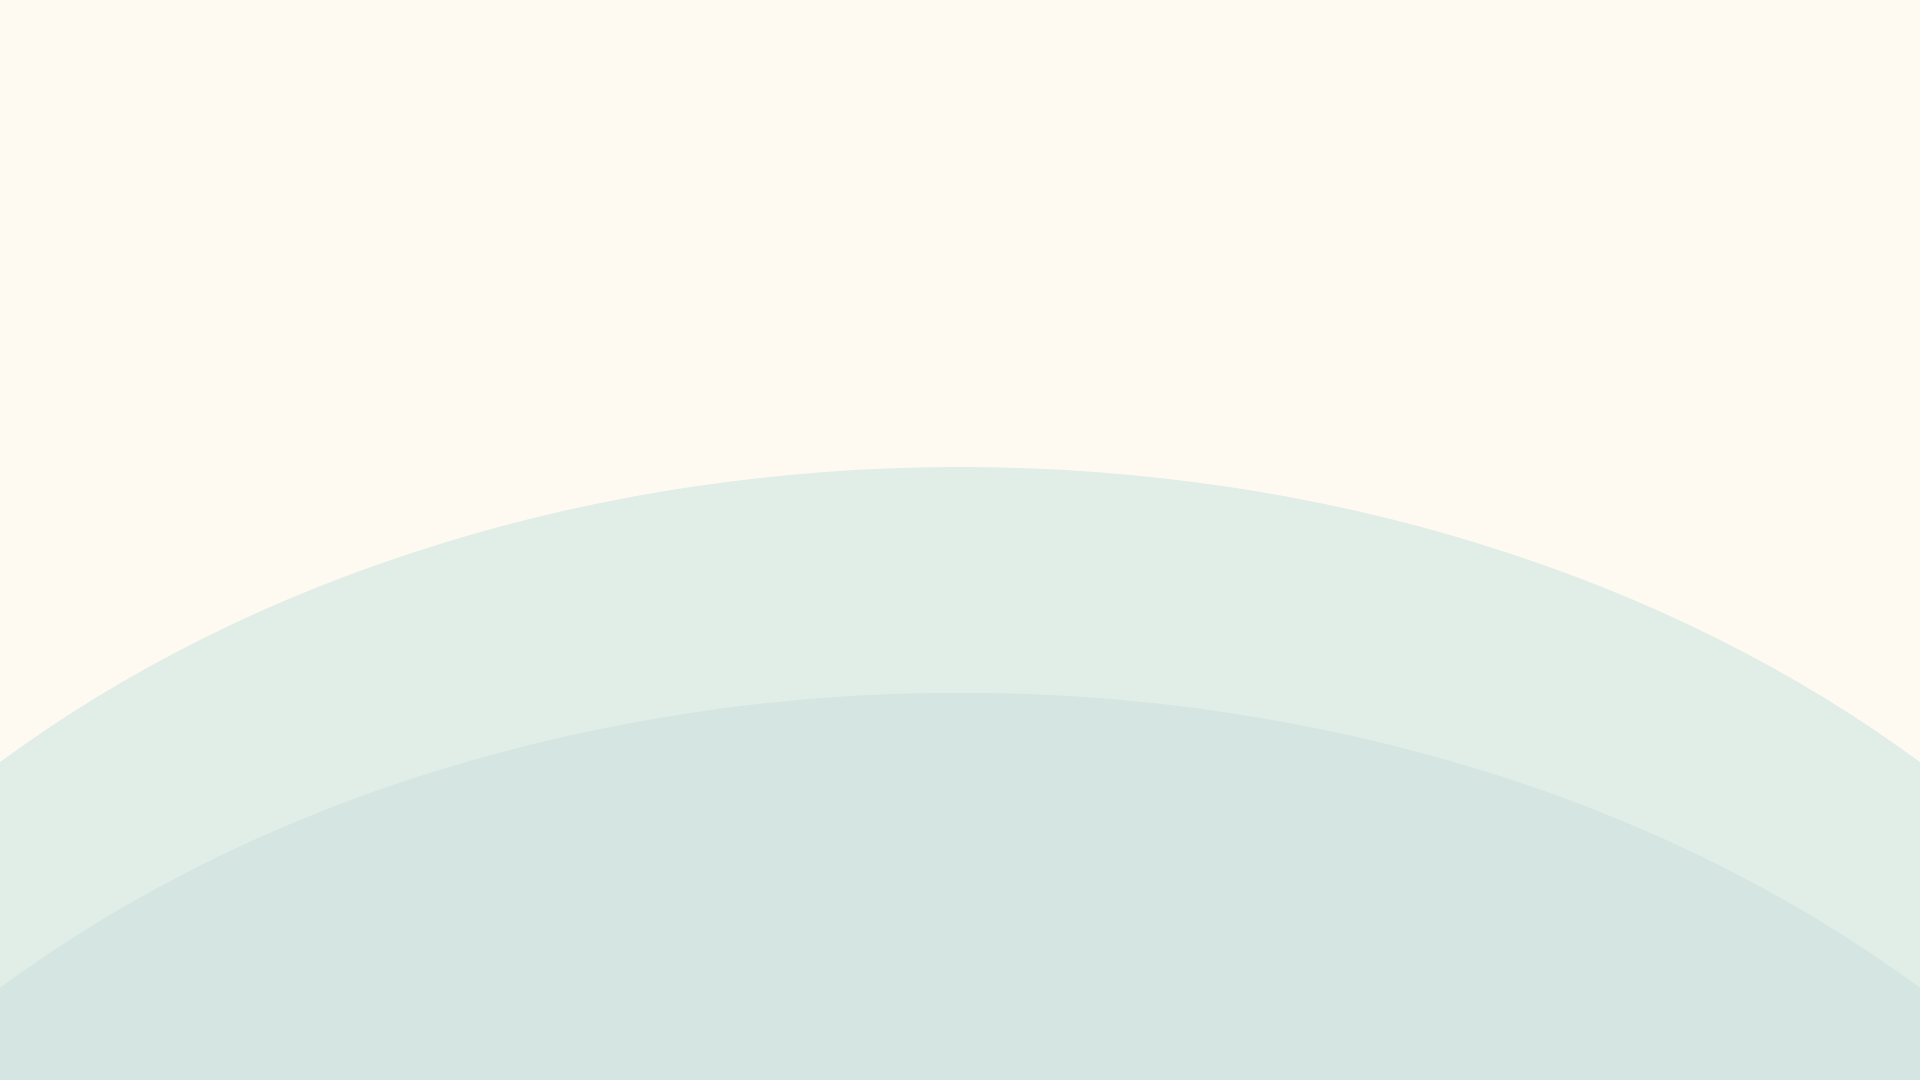
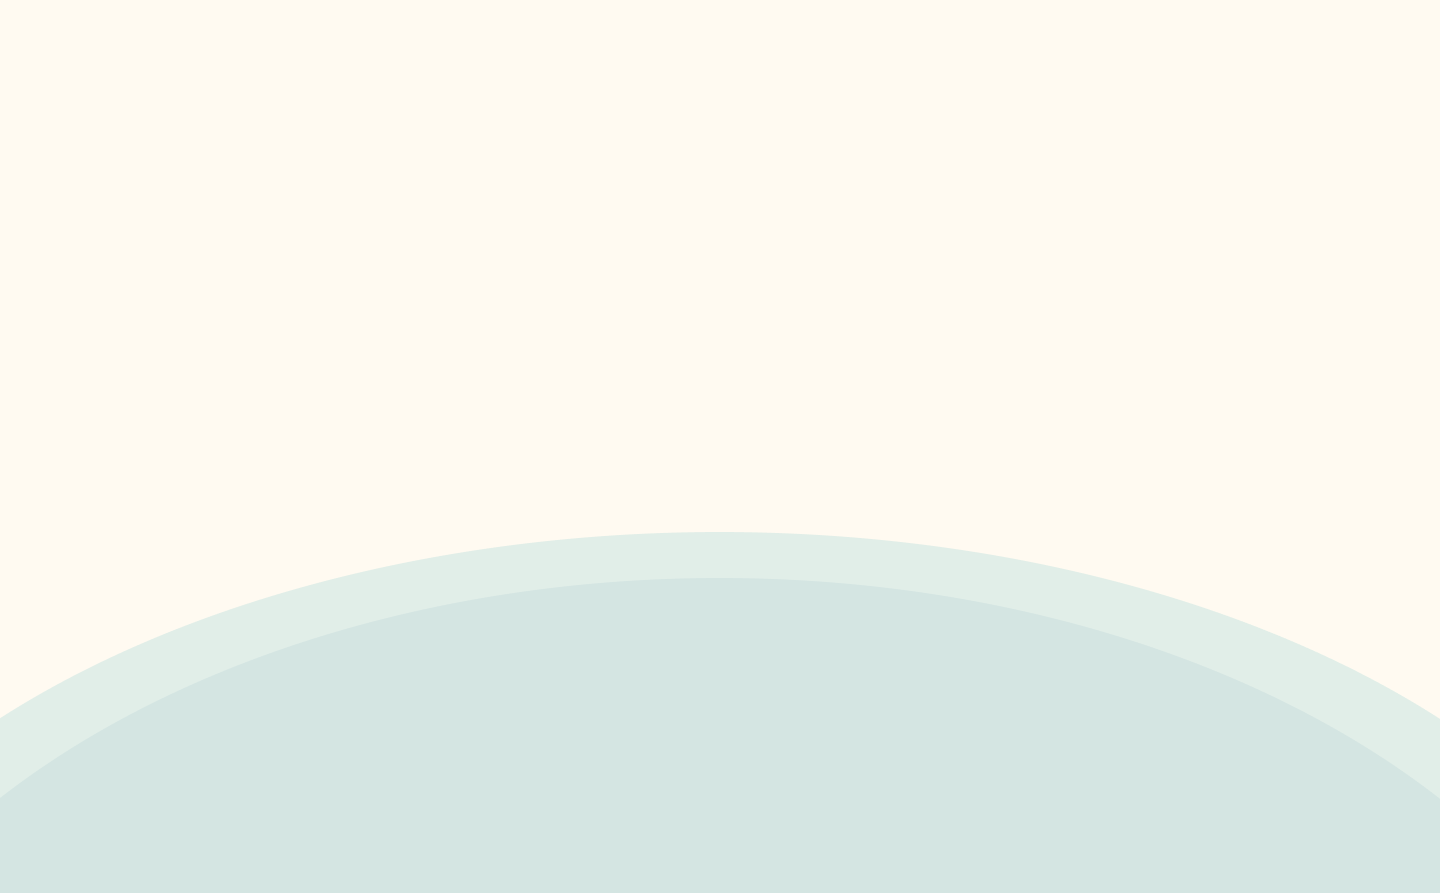
Homepage updated again

Changed region(s): [[0.0, 0.4233, 1.0, 0.8163]]

diff --git a/src/components/Homepage.jsx b/src/components/Homepage.jsx
@@ -26,6 +26,11 @@ export default function Homepage() {
       <div className="centered-title">
         <h1>WANT TO LEARN ASL?</h1>
       </div>
+      <div className="centered-text">
+        <p>Jump into <strong>ASLingo</strong>, the gamified way to learn <br />
+        <strong>American Sign Language!</strong> Get instant feedback, crush mini-games, <br />
+        and level up your skills. <strong>No matter your level, this is your all-in-one ASL platform.</strong></p>
+      </div>
       <div className="homepage-buttons">
          <button className="frontpage-btn" onClick={() => navigate("/login")}>Login</button>
          <button className="frontpage-btn" onClick={() => navigate("/signup")}>Sign Up</button>

diff --git a/src/index.css b/src/index.css
@@ -46,7 +46,7 @@ body {
   gap: 20px;      
   display: flex;
   justify-content: center;     
-  margin-top: 150px; 
+  margin-top: 250px; 
 }
 
 .frontpage-btn {
@@ -74,7 +74,16 @@ body {
   color: #283E4C;
   text-align: center;
   position: absolute;
-  margin-bottom: 200px;
+  margin-top: 100px;
+}
+
+.centered-text {
+  font-family: 'Reddit Sans', sans-serif;
+  font-size: 25px;
+  color: #283E4C;
+  text-align: center;
+  position: absolute;
+  margin-top: 540px;
 }
 
 @media (prefers-color-scheme: light) {
